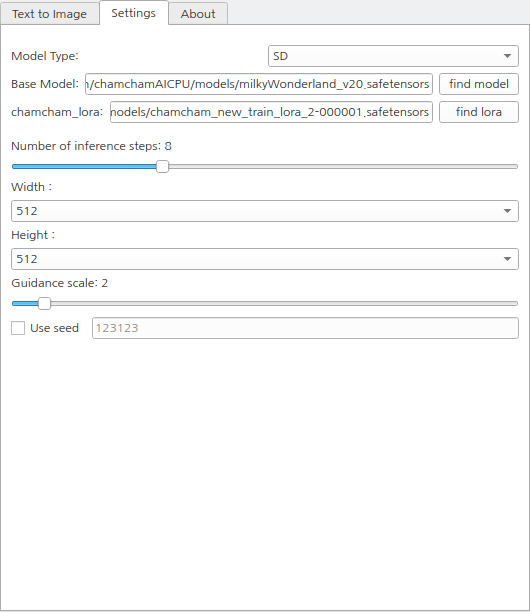
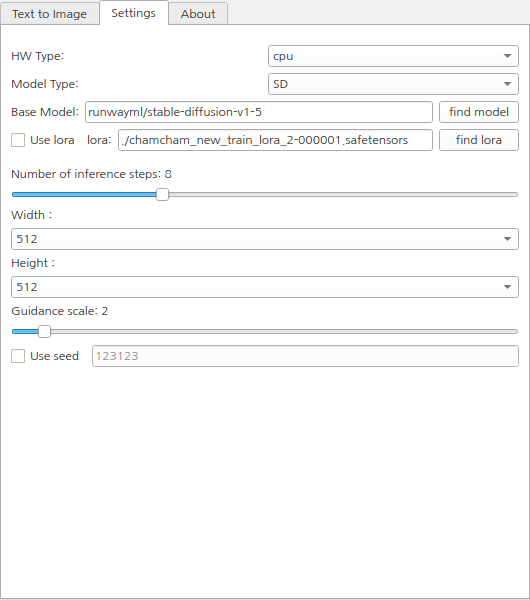
update readme (install process)

Changed region(s): [[0.0, 0.0, 0.9962, 0.6], [0.2113, 0.0, 0.3019, 0.03]]

diff --git a/gui.py b/gui.py
@@ -149,7 +149,7 @@ class MainWindow(QMainWindow):
 
     def create_settings_tab(self):
         device_hlayout = QHBoxLayout()
-        self.device_label = QLabel("Model Type:")
+        self.device_label = QLabel("HW Type:")
         self.device = QComboBox(self)
         self.device.addItem("cpu")
         self.device.addItem("cuda")

diff --git a/README.md b/README.md
@@ -1,7 +1,11 @@
 # fasteasysd_UI
 
-fasteasySD_UI is a UI implementation project for the fasteasySD library 
+fasteasySD_UI is a UI implementation project for the fasteasySD library
 
+you can use any SD, SD1.5, SDXL Model and any custom Lora with LCM_LoRA.
+
+and even use this with cpu only.
+ 
 ### most of the UI structures used in this project are the results of borrowing and revising from fastsdcpu.
 
 fastsdcpu : https://github.com/rupeshs/fastsdcpu.git
@@ -12,9 +16,9 @@ fastsdcpu : https://github.com/rupeshs/fastsdcpu.git
 
 ## install
 
-### windows :
+**You must have a working Python installation.(Recommended : Python 3.10 or 3.11 )**
 
-You must have a working Python installation.(Recommended : Python 3.10 or 3.11 )**
+### windows :
 
 Clone/download this repo or download release.
 
@@ -25,9 +29,22 @@ Clone/download this repo or download release.
 #### Run Desktop GUI
 - To start desktop GUI double click `start.bat`
 
-### Linux :
+### Linux + Mac :
 
-now in progress.
+Clone/download this repo or download release.
+
+### Installation
+
+ - open terminal, go to fasteasysd_UI directory
+
+ - Run following command 
+    
+    `chmod +x install.sh`
+
+    `./install.sh`
+ - when install process done Run command
+    
+    `./start.sh`
 
 ## Usage
 
@@ -45,6 +62,10 @@ Tab for setting SD model and SD LoRa.
 
 <img src="md_img/gui2.png" width="400px">
 
+HW Type : Set HW for inference, cpu or cuda (default : cpu)
+
+(core ML implement is Future planning now)
+
 Model Type : Set the model type you want to use. (SD,SDXL,SSD-1B,LCM)
 
 Base Model : The path of the SD model to be used is directly set or explored.
@@ -53,5 +74,5 @@ lora : The path of the LoRa model to be used is directly set or explored.
 
 Other settings can be used according to the user's preference.
 
-But I strongly recommend use steps > 4 and Guidance scale = 2.
+But I strongly recommend use steps > 4 and Guidance scale = 2 when using custom LoRa 
 
